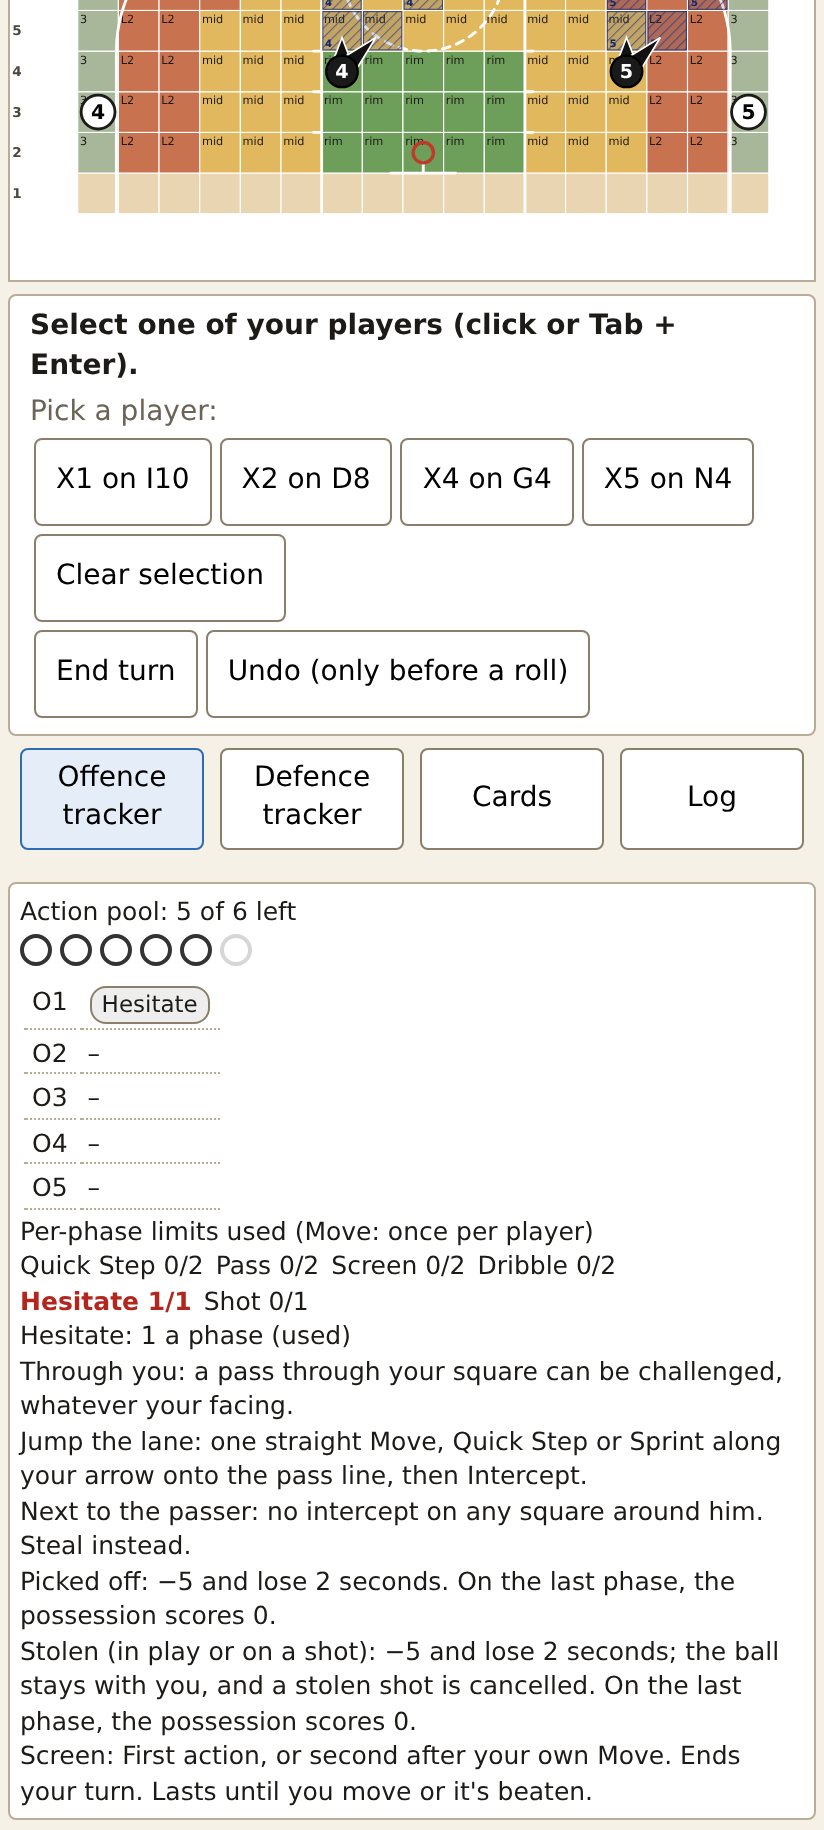
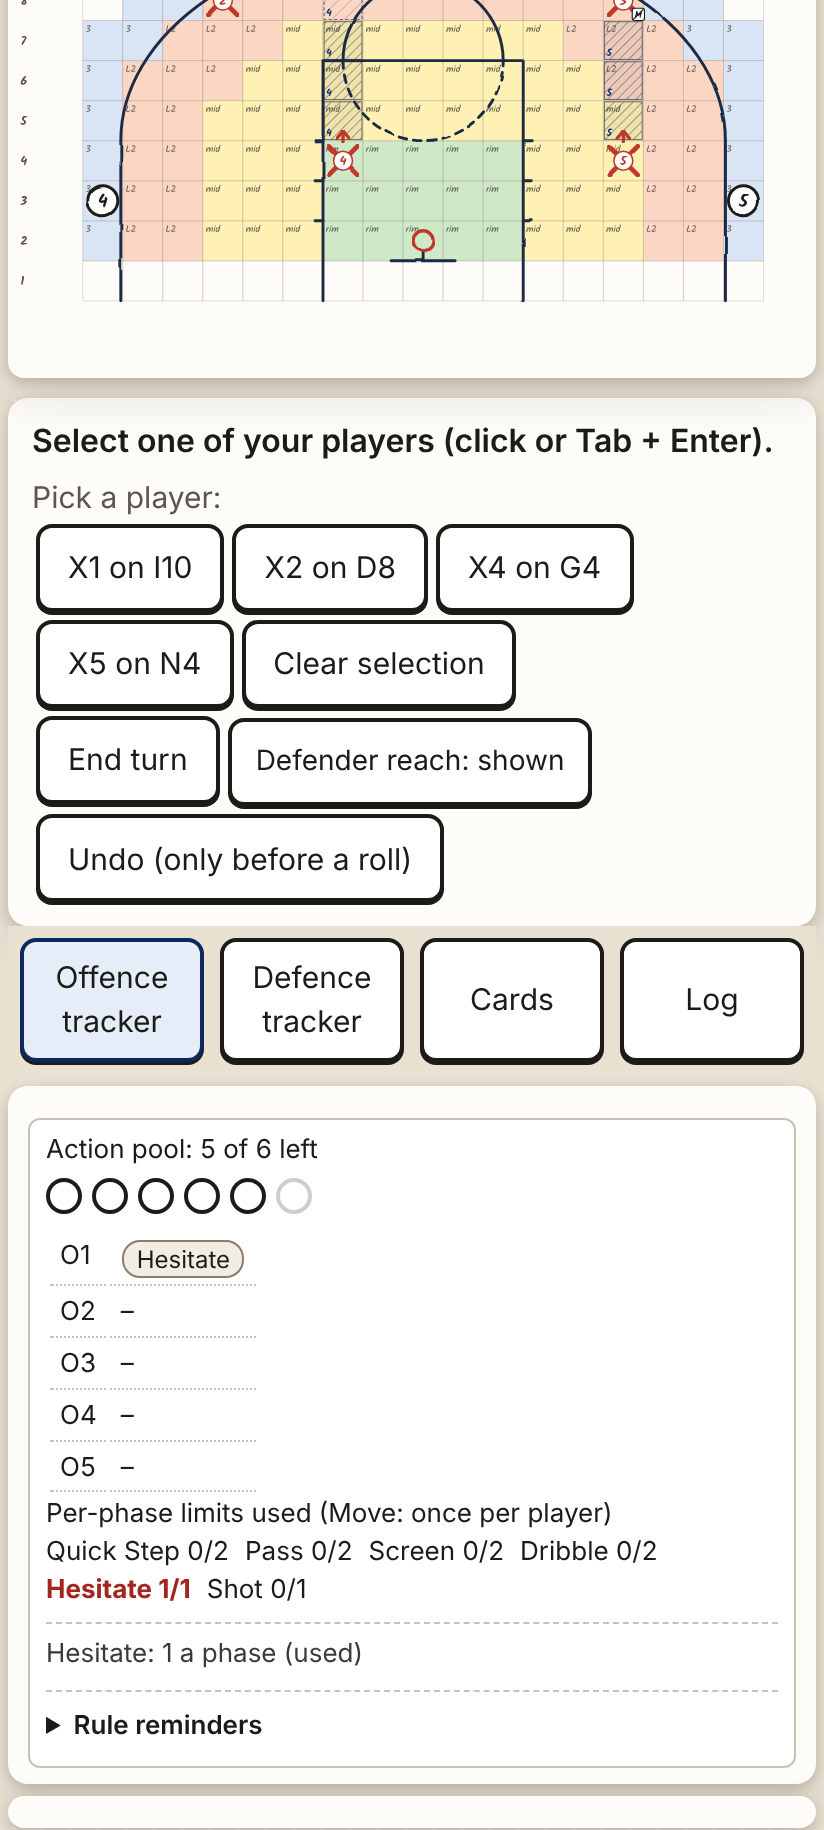
Browser tests follow the new start screen; phone touch targets for the small buttons; ring_jump records pin the wedge
Claude-Session: https://claude.ai/code/session_01FDQZLbkGFrzjRJM6FeKbhu

diff --git a/playmaker/playmaker_web/static/notation.js b/playmaker/playmaker_web/static/notation.js
@@ -148,7 +148,7 @@ window.PMNotation = (function () {
     if (b && b.qs) marks.push('Q');
     marks.forEach((m, k) => {
       const tx = X + 8 + k * 12, ty = Y + 7;
-      g.append(svg('rect', { class: 'captag', x: tx, y: ty, width: 11, height: 11, rx: 2, fill: '#fff', stroke: INK, 'stroke-width': 1 }));
+      g.append(svg('rect', { class: 'capbadge captag', x: tx, y: ty, width: 11, height: 11, rx: 2, fill: '#fff', stroke: INK, 'stroke-width': 1 }));
       g.append(svg('text', { x: tx + 5.5, y: ty + 8.8, 'text-anchor': 'middle', 'font-size': 8.5, 'font-weight': 'bold', fill: INK, 'aria-hidden': 'true' }, m));
       g.append(svg('line', { x1: tx + 1, y1: ty + 10, x2: tx + 10, y2: ty + 1, stroke: INK, 'stroke-width': 1.1 }));
     });

diff --git a/playmaker/playmaker_web/static/style.css b/playmaker/playmaker_web/static/style.css
@@ -294,3 +294,4 @@ details.rulesbox summary { cursor: pointer; font-weight: 600; padding: 4px 0; }
 details.rulesbox .waits { font-size: 12.5px; }
 details.endsec { margin: 8px 0; border-top: 1px dashed var(--line); padding-top: 4px; }
 details.endsec summary { cursor: pointer; font-weight: 600; padding: 6px 0; }
+@media (max-width: 820px) { button.small { min-height: 44px; font-size: 14px; padding: 6px 12px; } }

diff --git a/playmaker/tests/test_static.py b/playmaker/tests/test_static.py
@@ -118,7 +118,7 @@ const [url, shot] = process.argv.slice(2);
   const page = await ctx.newPage();
   await page.goto(url);
   await page.waitForSelector('#loading', { state: 'detached', timeout: 120000 });
-  await page.selectOption('#kind', 'single'); await page.selectOption('#level', 'pro');
+  await page.click('button.path[data-path=friend]'); await page.waitForTimeout(300); await page.selectOption('#kind', 'single'); await page.selectOption('#level', 'pro');
   await page.click('#create'); await page.waitForTimeout(1200);
   await page.click('g.piece[aria-label^="O1,"]'); await page.waitForTimeout(400);
   const res = await page.evaluate(() => {
@@ -225,7 +225,7 @@ const [url, shot] = process.argv.slice(2);
   page.on('pageerror', e => console.error('pageerror', e.message));
   await page.goto(url);
   await page.waitForSelector('#loading', { state: 'detached', timeout: 120000 });
-  await page.selectOption('#kind', 'single'); await page.selectOption('#level', 'pro');
+  await page.click('button.path[data-path=friend]'); await page.waitForTimeout(300); await page.selectOption('#kind', 'single'); await page.selectOption('#level', 'pro');
   await page.click('#create'); await page.waitForTimeout(1200);
   const count = () => page.evaluate(() => {
     const per = {};

diff --git a/playmaker/tests/test_intercepts_oq72.py b/playmaker/tests/test_intercepts_oq72.py
@@ -18,7 +18,7 @@ TABLE_X = ['I10', 'D8', 'N8', 'G4', 'N4']
 ARROWS = ['N', 'NE', 'NW', 'N', 'N']
 
 
-RJ = RC.with_rules(intercept_rule='ring_jump', turnover_cost='legacy')
+RJ = RC.with_rules(intercept_rule='ring_jump', turnover_cost='legacy', arrow_mode='wedge')   # built for the wedge
 
 
 def board(o=TABLE_O, x=TABLE_X, arrows=ARROWS, **kw):
